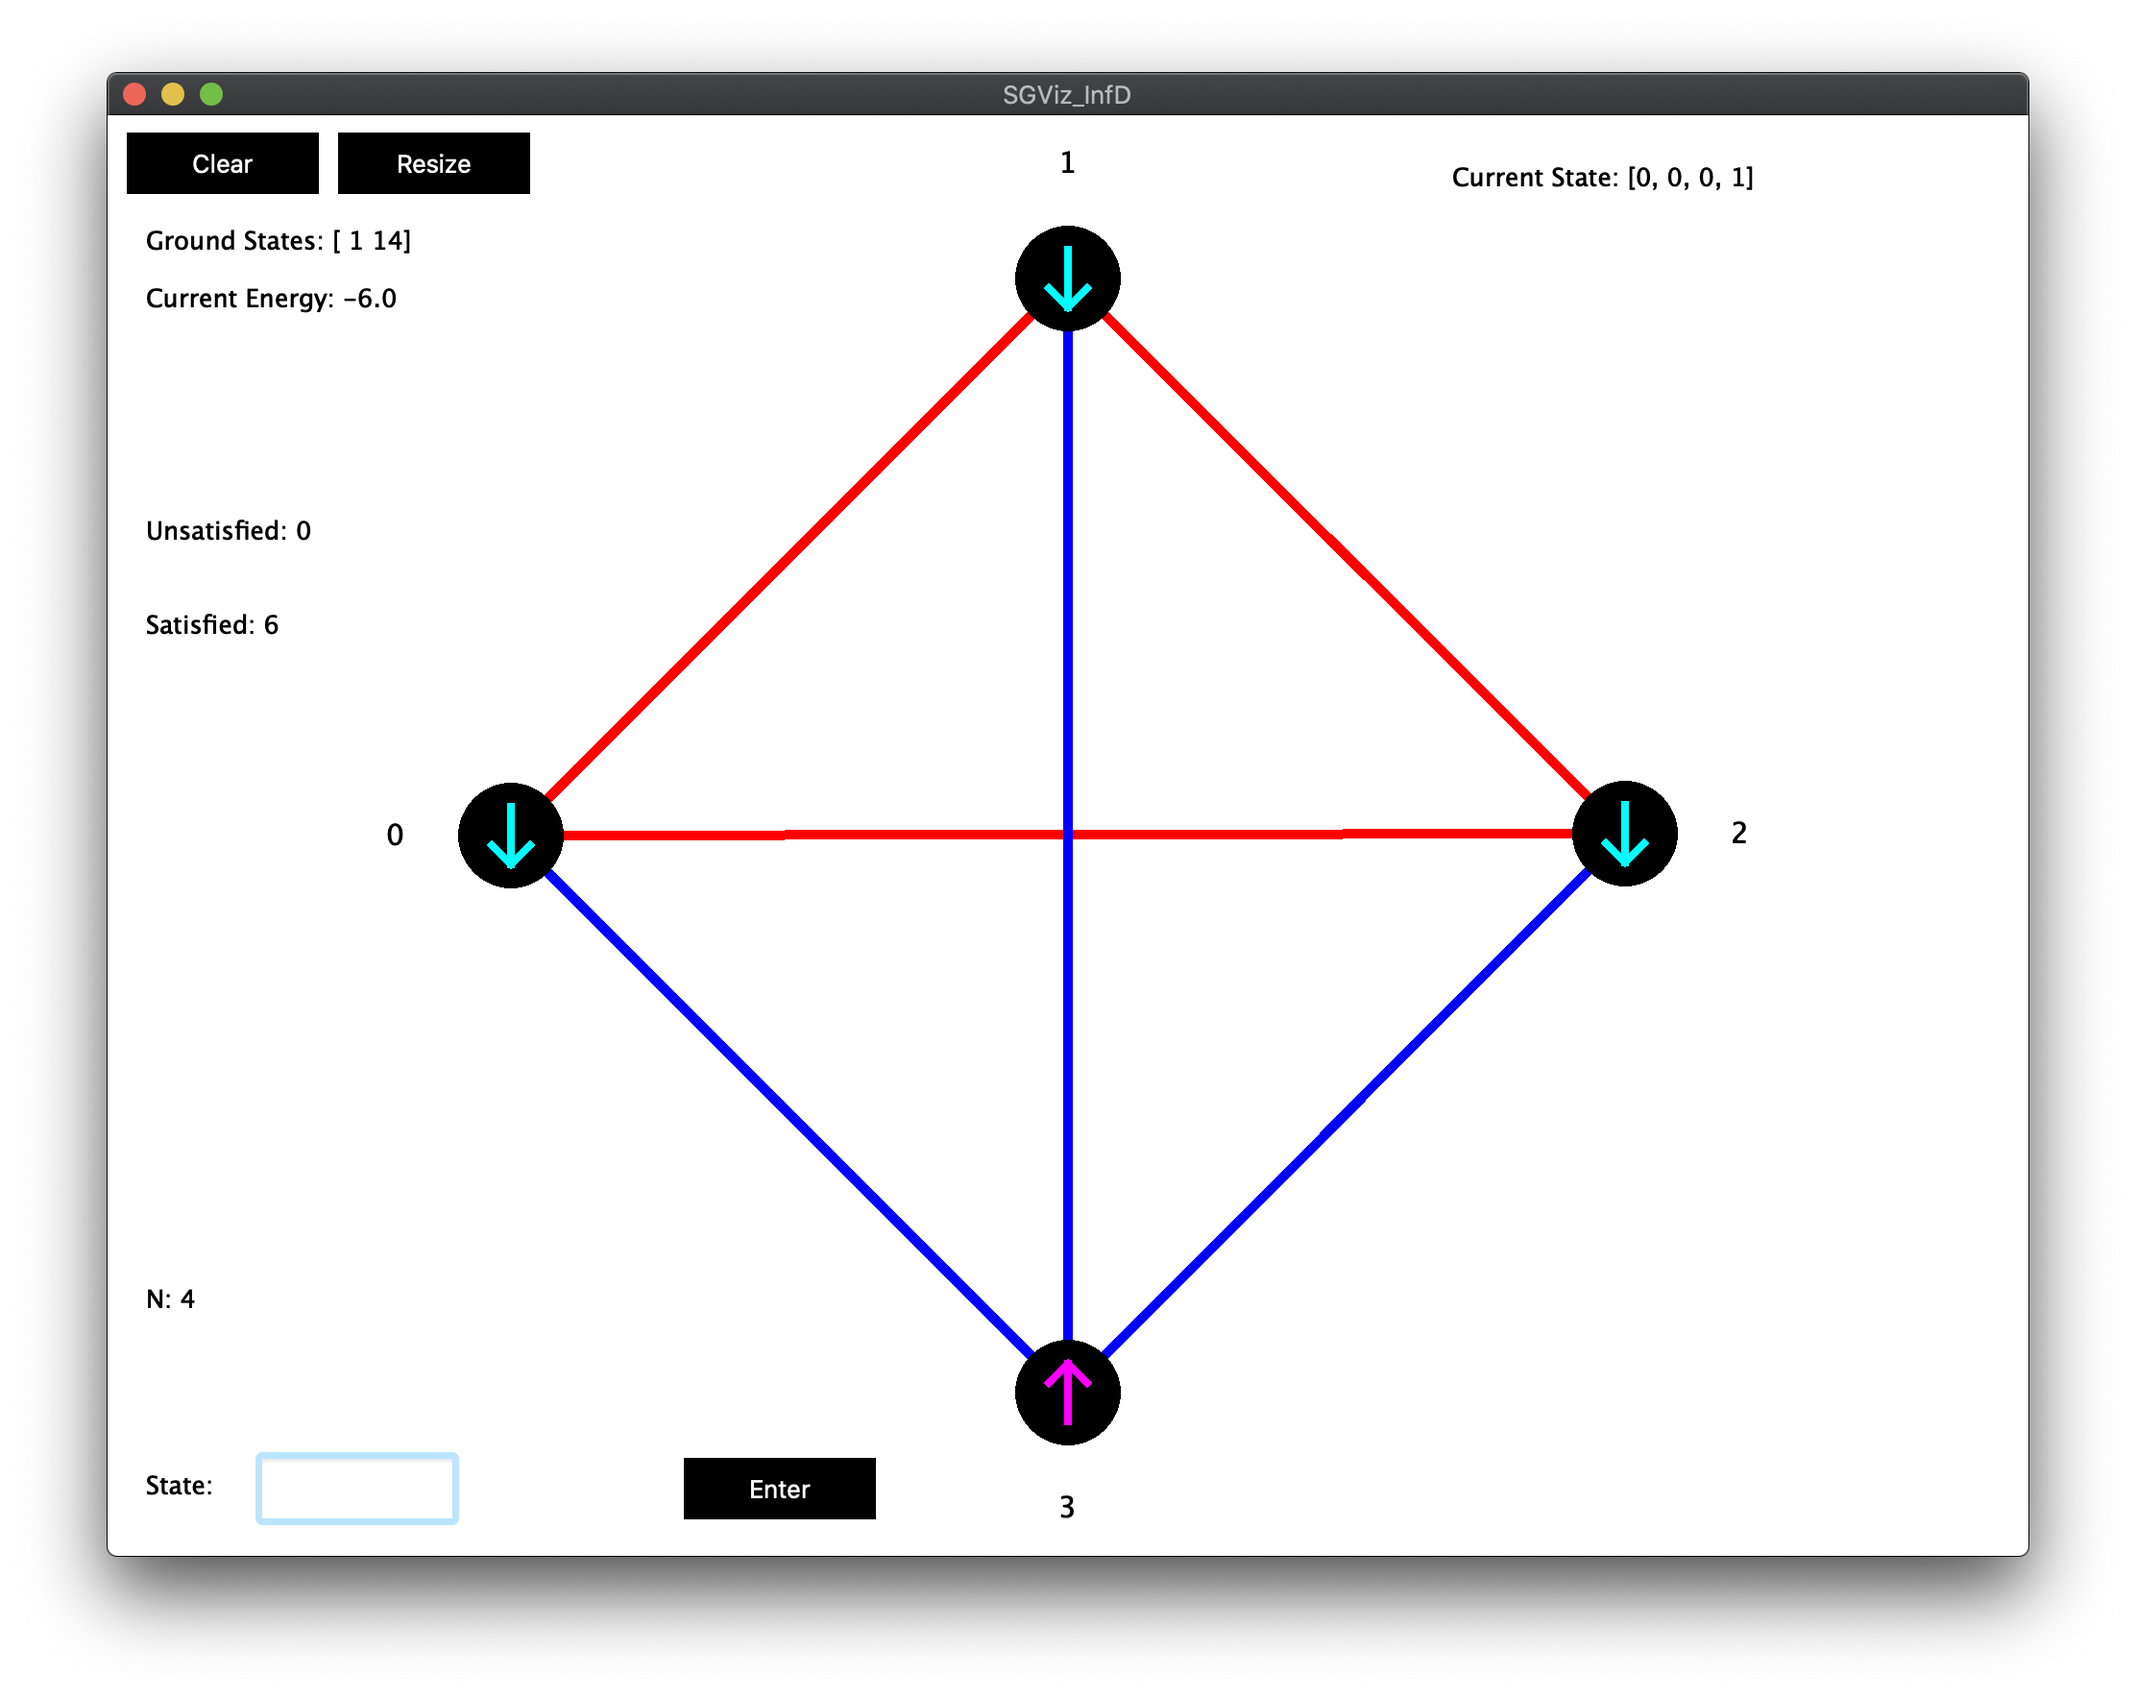
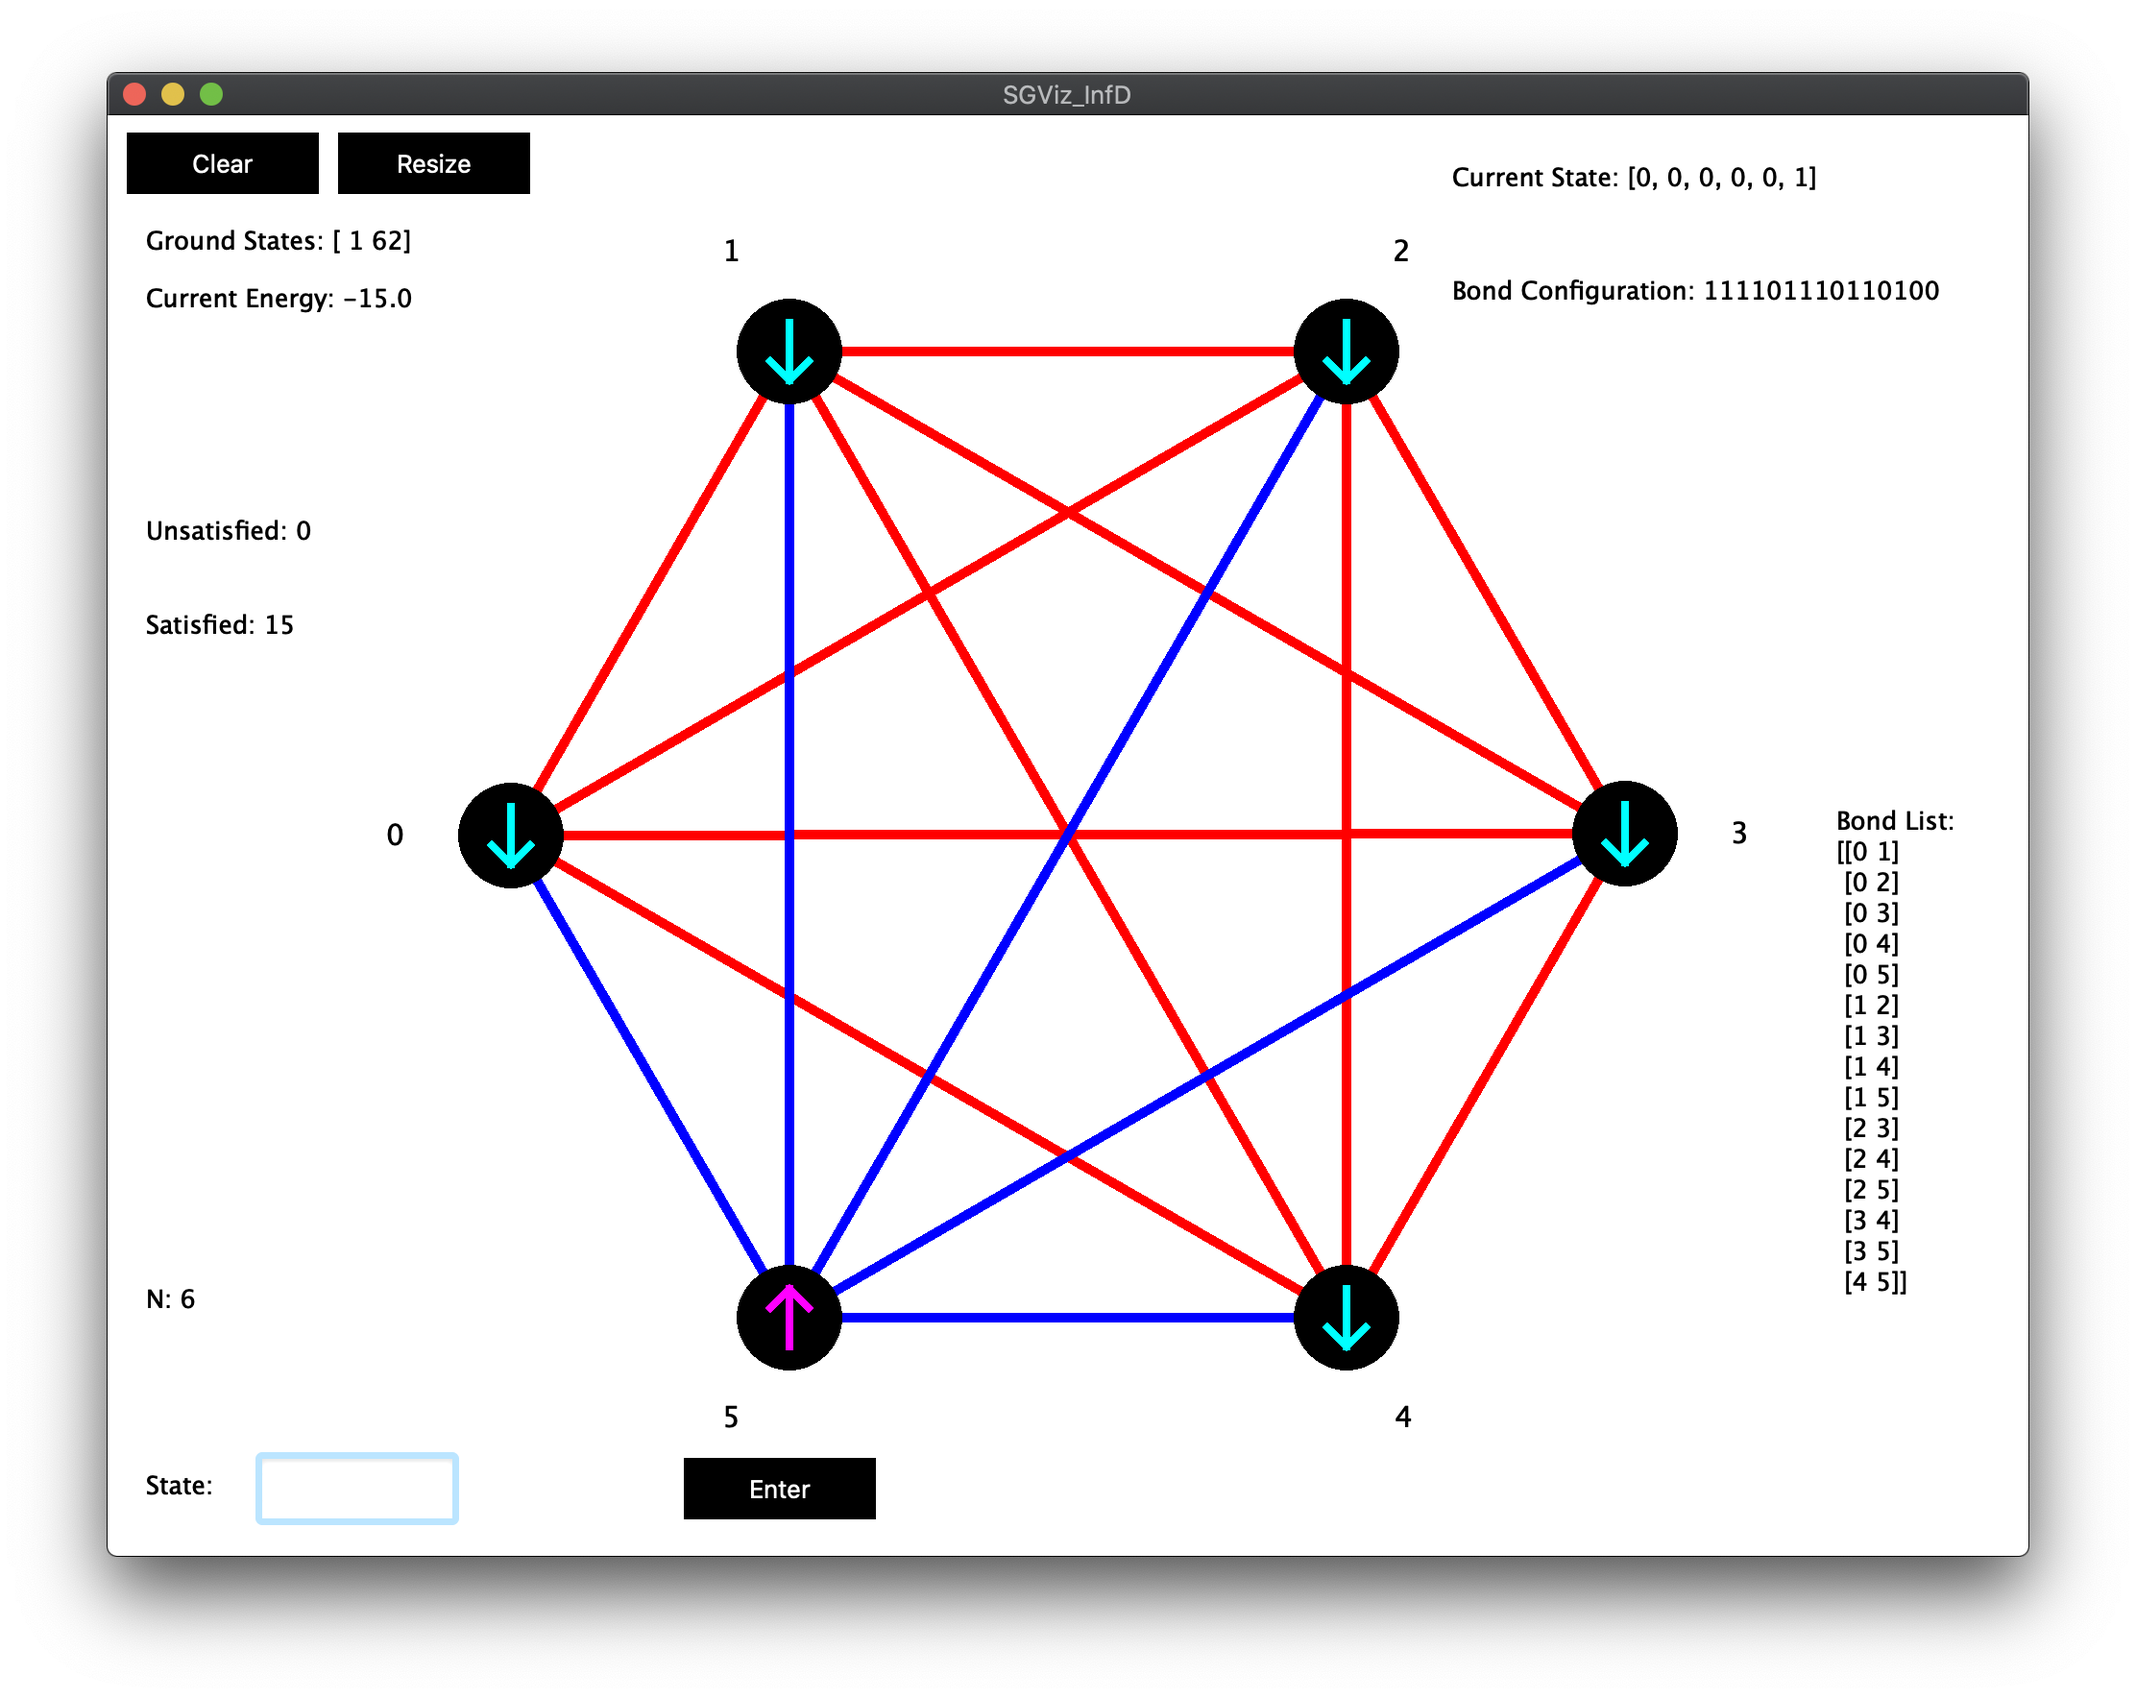
added more images

diff --git a/SGViz.py b/SGViz.py
@@ -111,6 +111,8 @@ class Window(QMainWindow):
 		self.Resizebutton = QPushButton('Resize', self)
 		self.Resizebutton.setStyleSheet("QPushButton {color: white; background-color: black}")
 		self.Resizebutton.clicked.connect(self.resizeMethod)
+		self.BCLabel = QLabel(self)
+		self.CLLabel = QLabel(self)
 
 
 
@@ -387,6 +389,18 @@ class Window(QMainWindow):
 		self.NLabel.setText("N: " + str(self.N ))
 		self.NLabel.move(0.02*self.Swidth,0.8*self.Sheight)
 		self.NLabel.resize(0.05*self.Swidth,0.043*self.Sheight)
+
+		self.BCLabel.setStyleSheet("color: black")
+		self.BCLabel.setFont(QFont('Decorative', fontsize))
+		self.BCLabel.setText("Bond Configuration: " + str(self.BC)[::-1])
+		self.BCLabel.move(0.7*self.Swidth,0.1*self.Sheight)
+		self.BCLabel.resize(0.3*self.Swidth,0.043*self.Sheight)
+
+		self.CLLabel.setStyleSheet("color: black")
+		self.CLLabel.setFont(QFont('Decorative', fontsize))
+		self.CLLabel.setText("Bond List:\n" + str(np.array([np.array(list(c)) for c in it.combinations([i for i in range(self.N)],2)])))
+		self.CLLabel.move(0.9*self.Swidth,0.15*self.Sheight)
+		self.CLLabel.resize(0.3*self.Swidth,1*self.Sheight)
 
 		
 

diff --git a/SGFrustration.py b/SGFrustration.py
@@ -119,7 +119,7 @@ def main():
     bcarray=[]
     for key in probampdict:
         if probampdict[key] > 0.9*solpa:
-            print(str(j) +".",bs.format(i),probampdict[key])
+            print(str(j) +".",bs.format(i)[::-1],probampdict[key])
             bcarray.append(bs.format(i))
             j+=1
         i+=1
